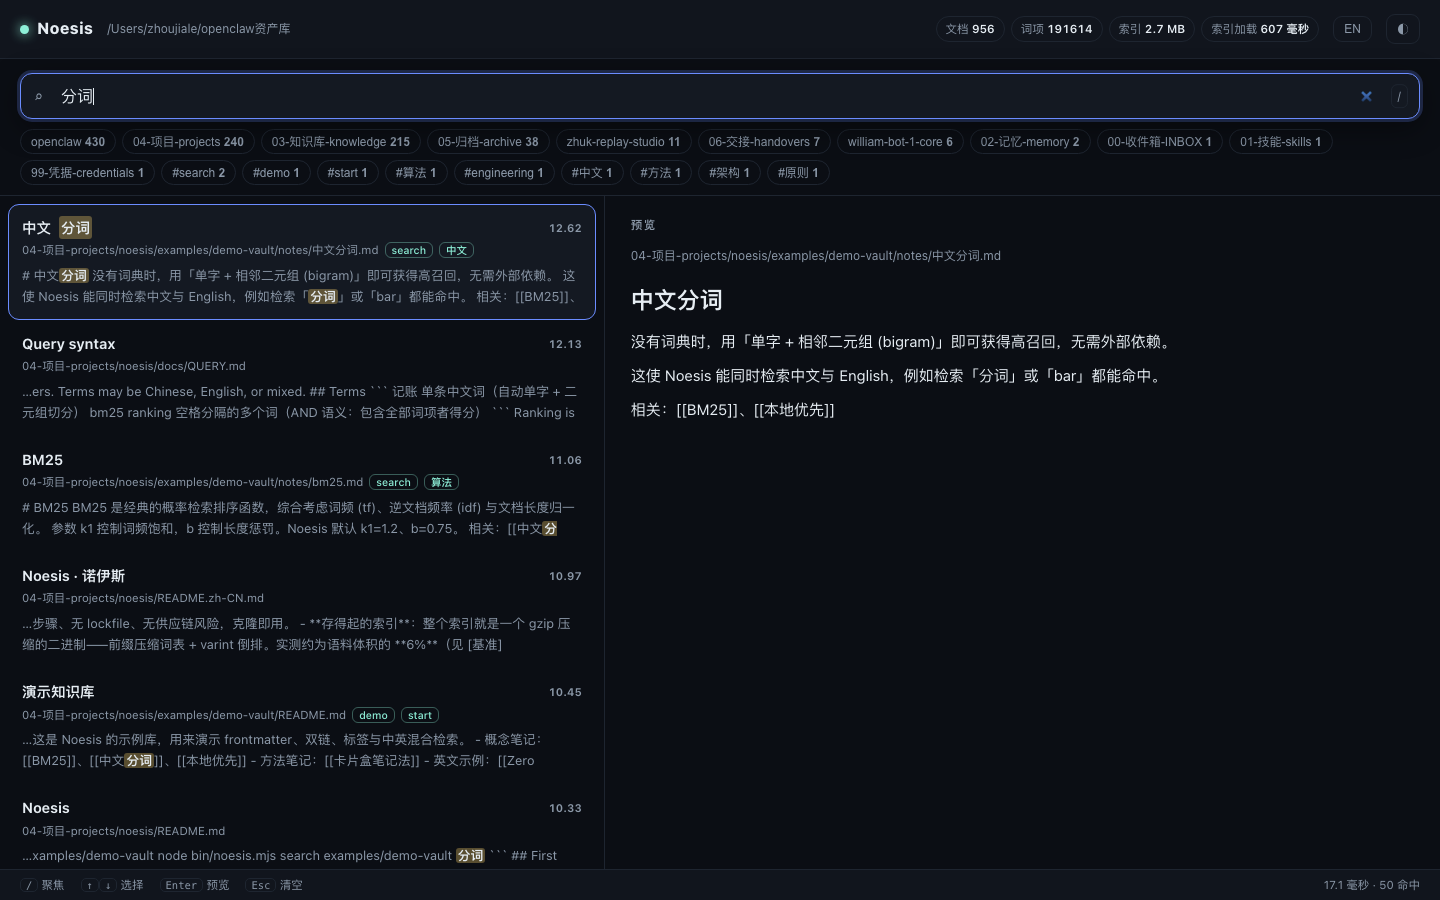
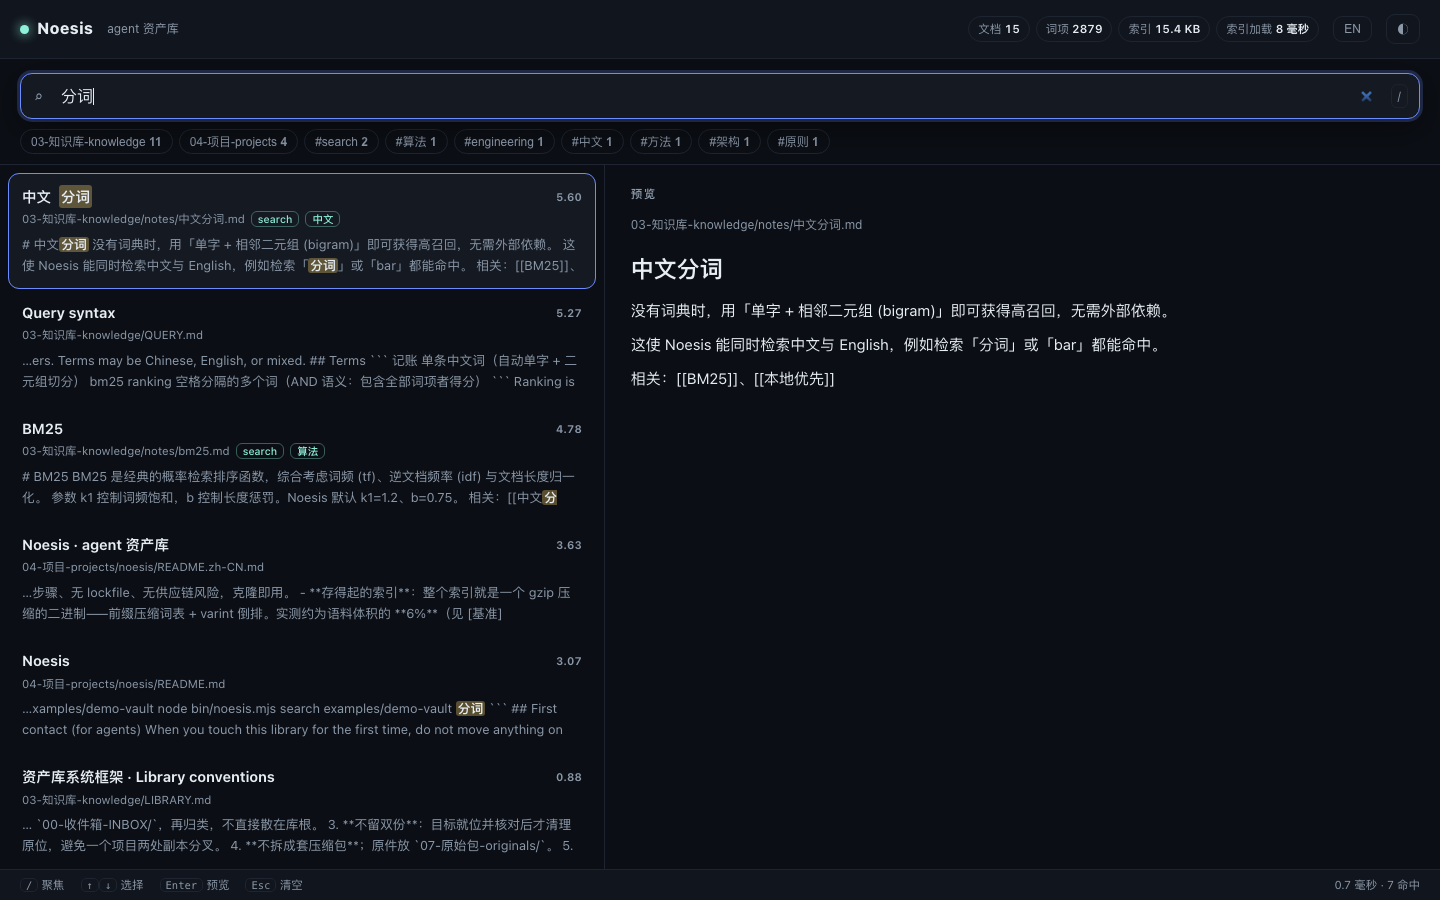
refactor: neutral UI label option, rename the Chinese name to agent 资产库, clean screenshot
- ui/serve: new --label flag; the UI header shows the label instead of the absolute vault path

- README.zh-CN: the Chinese name is agent 资产库 (no transliteration)

- docs/screenshot.png: re-shot from a public 15-note demo vault built out of this repo docs

diff --git a/src/ui.html b/src/ui.html
@@ -162,7 +162,7 @@ footer kbd{border:1px solid var(--line);border-radius:5px;padding:0 5px;font-siz
   function renderStats(){
     if(!lastStats) return;
     var d=lastStats;
-    vault.textContent=d.root||"";
+    vault.textContent=d.label||d.root||"";
     stats.innerHTML='<span class="chip">'+t("docs")+' <b>'+d.documents+'</b></span><span class="chip">'+t("terms")+' <b>'+d.terms+'</b></span>'+
       '<span class="chip">'+t("index")+' <b>'+d.indexBytesHuman+'</b></span>'+(d.bootMs!=null?'<span class="chip">'+t("boot")+' <b>'+d.bootMs+' '+t("ms")+'</b></span>':"");
   }

diff --git a/README.zh-CN.md b/README.zh-CN.md
@@ -1,8 +1,8 @@
 <div align="center">
 
-# Noesis · 诺伊斯
+# Noesis · agent 资产库
 
-**零依赖、本地优先的知识框架。**
+**零依赖、本地优先的知识框架。**（中文名：**agent 资产库**）
 紧凑二进制索引 · BM25 · 中英混合检索 · 增量构建 · 双链图谱。
 
 ![dependencies](https://img.shields.io/badge/依赖-0-brightgreen)
